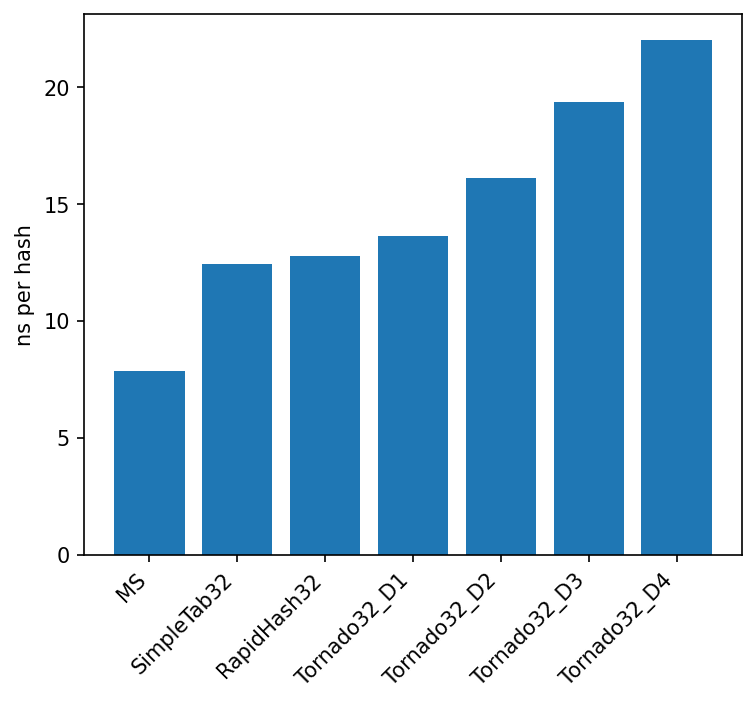
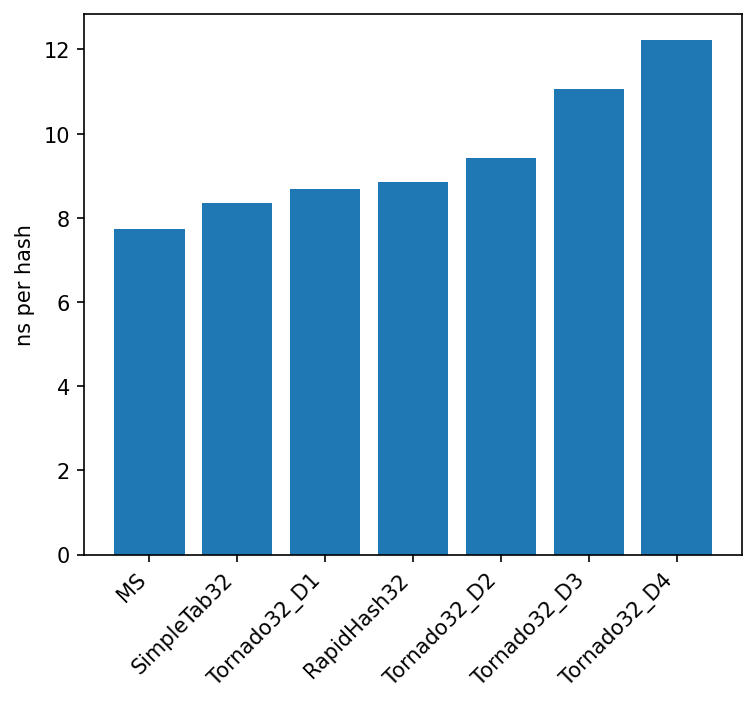
fix speed_CM_a2 and add colision test

diff --git a/src/speed_CM_a2.cpp b/src/speed_CM_a2.cpp
@@ -1,3 +1,6 @@
+// speed_CM_a2.cpp
+// Measure time to INSERT all A2 4-byte keys into Count-Min Sketch, for multiple hash families.
+// Structure aligned with speed_CM_r1.cpp and speed_OPH_a2.cpp.
 
 #include <cstdint>
 #include <string>
@@ -7,24 +10,26 @@
 #include <iomanip>
 #include <fstream>
 #include <stdexcept>
-
-#include "core/a2.hpp"
-#include "core/randomgen.hpp"
-#include "hash/ms.hpp"
-#include "hash/simpletab32.hpp"
-#include "hash/tornado32.hpp"
-#include "hash/rapidhash.h"
-#include "sketch/bottomk.hpp"
-#include "sketch/countmin.hpp"
-#include "sketch/oph.hpp"
+#include <array>
 #include <random>
 #include <algorithm>
 #include <functional>
 #include <unordered_map>
 
+#include "core/a2.hpp"
+#include "core/randomgen.hpp"
+
+#include "hash/ms.hpp"
+#include "hash/simpletab32.hpp"
+#include "hash/tornado32.hpp"
+#include "hash/rapidhash.h"
+
+#include "sketch/countmin.hpp"
+
+// ----------------- utils -----------------
 static inline std::uint32_t load_le_u32(const std::uint8_t* p) {
     return (std::uint32_t)p[0] | ((std::uint32_t)p[1] << 8) |
-           ((std::uint32_t)p[2] << 16) | ((std::uint32_t)p[3] << 24);
+        ((std::uint32_t)p[2] << 16) | ((std::uint32_t)p[3] << 24);
 }
 
 #if defined(_MSC_VER)
@@ -44,21 +49,28 @@ static std::pair<double, std::uint32_t> time_body(std::size_t loops, Body&& body
     return { sec, sink };
 }
 
-// speed_CM_a2.cpp
-// Measure time to INSERT all A2 keys into Count-Min Sketch, for multiple hash families.
-struct RapidRow32 { rapid::RapidHash32 h; void set_seed(std::uint64_t s){ h.set_params(s, rapid_secret[0], rapid_secret[1], rapid_secret[2]); } std::uint32_t hash(std::uint32_t k) const { return h.hash(&k, sizeof(k)); } };
+// Row hash for CMS (maps 32-bit key -> column)
+struct RowHash32 {
+    std::uint32_t a = 0, b = 0;
+    void set_seed(std::uint64_t s) { a = (std::uint32_t)s | 1u; b = (std::uint32_t)(s >> 32); }
+    std::uint32_t hash(std::uint32_t x) const { return a * x + b; } // mod 2^32
+};
 
 int main(int argc, char** argv) {
     try {
+        // ----------------- CLI -----------------
         std::size_t loops = 1000;
         std::size_t WIDTH = 32768;
         std::size_t DEPTH = 3;
         std::string out_csv = "a2_speed_cm.csv";
-        int rounds = 10; // number of randomized passes
+        int rounds = 10; // randomized passes
 
         for (int i = 1; i < argc; ++i) {
             std::string a = argv[i];
-            auto next = [&]() { if (i + 1 < argc) return std::string(argv[++i]); throw std::runtime_error("missing value for " + a); };
+            auto next = [&]() {
+                if (i + 1 < argc) return std::string(argv[++i]);
+                throw std::runtime_error("missing value for " + a);
+                };
             if (a == "--loops") loops = std::stoull(next());
             else if (a == "--width") WIDTH = std::stoull(next());
             else if (a == "--depth") DEPTH = std::stoull(next());
@@ -69,112 +81,134 @@ int main(int argc, char** argv) {
             }
         }
 
+        // ----------------- dataset -----------------
         datasets::A2 ds;
         const auto& buf = ds.buffer();
         const std::size_t N = ds.size();
-        if (buf.size() != N * 4) { std::cerr << "A2 contiguous 4B expected\n"; return 2; }
+        if (buf.size() != N * 4) {
+            std::cerr << "A2 contiguous 4B expected\n";
+            return 2;
+        }
         std::cout << "A2 items: " << N << "  loops=" << loops << "  W=" << WIDTH << " D=" << DEPTH << "\n";
 
+        // ----------------- hash families under test (key -> 32-bit hv) -----------------
+        hashfn::MS ms;                     ms.set_params(rng::get_u64(), rng::get_u64());
+        hashfn::SimpleTab32 stab;          stab.set_params();
+        hashfn::TornadoTab32D1 t1;         t1.set_params();
+        hashfn::TornadoTab32D2 t2;         t2.set_params();
+        hashfn::TornadoTab32D3 t3;         t3.set_params();
+        hashfn::TornadoTab32D4 t4;         t4.set_params();
+        rapid::RapidHash32 rh;             rh.set_params(rng::get_u64(), rapid_secret[0], rapid_secret[1], rapid_secret[2]);
+
+        // ----------------- fixed row hashers for CMS (seeded once) -----------------
+        std::vector<RowHash32> rows(DEPTH);
+        for (std::size_t d = 0; d < DEPTH; ++d) rows[d].set_seed(rng::get_u64());
+
         struct Row { const char* name; double mhps; double nsph; std::uint32_t checksum; };
-        std::vector<Row> rows;
+        std::vector<Row> out;
         auto push_row = [&](const char* name, double sec, std::uint32_t sink) {
             const std::size_t total = N * loops;
-            rows.push_back({ name, (total / sec) / 1e6, (sec * 1e9) / double(total), sink });
+            out.push_back({ name, (total / sec) / 1e6, (sec * 1e9) / double(total), sink });
+            };
+
+        // ----------------- benches -----------------
+        auto bench_u32 = [&](auto& H, const char* name) {
+            auto body = [&](volatile std::uint32_t& sink) {
+                sketch::CountMin cms(WIDTH, DEPTH);
+                for (std::size_t d = 0; d < DEPTH; ++d) cms.set_row(d, &rows[d]);
+                for (std::size_t i = 0; i < N; ++i) {
+                    const std::uint32_t x = load_le_u32(buf.data() + i * 4);
+                    const std::uint32_t hv = H.hash(x);
+                    cms.add(hv, 1);
+                    sink ^= hv;
+                }
+                };
+            auto [sec, s] = time_body(loops, body);
+            push_row(name, sec, s);
+            };
+        auto bench_ptr = [&](auto& H, const char* name) {
+            auto body = [&](volatile std::uint32_t& sink) {
+                sketch::CountMin cms(WIDTH, DEPTH);
+                for (std::size_t d = 0; d < DEPTH; ++d) cms.set_row(d, &rows[d]);
+                for (std::size_t i = 0; i < N; ++i) {
+                    const void* p = buf.data() + i * 4;
+                    const std::uint32_t hv = H.hash(p, 4);
+                    cms.add(hv, 1);
+                    sink ^= hv;
+                }
+                };
+            auto [sec, s] = time_body(loops, body);
+            push_row(name, sec, s);
+            };
+
+        // ----------------- randomized job ordering over rounds -----------------
+        struct Job { const char* name; std::function<void()> run; };
+        std::vector<Job> jobs = {
+            {"MS",            [&] { bench_u32(ms,   "MS"); }},
+            {"SimpleTab32",   [&] { bench_u32(stab, "SimpleTab32"); }},
+            {"Tornado32_D1",  [&] { bench_u32(t1,   "Tornado32_D1"); }},
+            {"Tornado32_D2",  [&] { bench_u32(t2,   "Tornado32_D2"); }},
+            {"Tornado32_D3",  [&] { bench_u32(t3,   "Tornado32_D3"); }},
+            {"Tornado32_D4",  [&] { bench_u32(t4,   "Tornado32_D4"); }},
+            {"RapidHash32",   [&] { bench_ptr(rh,   "RapidHash32"); }},
         };
 
-        // Seeds per depth (so we don't re-generate inside the timed body)
-        std::vector<std::pair<std::uint64_t,std::uint64_t>> seedsMS(DEPTH);
-        std::vector<std::uint64_t> seedsRapid(DEPTH);
-        for (std::size_t d = 0; d < DEPTH; ++d) { seedsMS[d] = {rng::get_u64(), rng::get_u64()}; seedsRapid[d] = rng::get_u64(); }
-
-        auto bench_ms = [&](){
-            auto body = [&](volatile std::uint32_t& sink) {
-                sketch::CountMin cms(WIDTH, DEPTH);
-                std::vector<hashfn::MS> rows(DEPTH);
-                for (std::size_t d=0; d<DEPTH; ++d) { rows[d].set_params(seedsMS[d].first, seedsMS[d].second); cms.set_row(d, &rows[d]); }
-                for (std::size_t i = 0; i < N; ++i) { const std::uint32_t x = load_le_u32(buf.data() + i * 4); cms.add(x, 1); sink ^= x; }
-            };
-            return time_body(loops, body);
-        };
-        auto bench_stab = [&](){
-            auto body = [&](volatile std::uint32_t& sink) {
-                sketch::CountMin cms(WIDTH, DEPTH);
-                std::vector<hashfn::SimpleTab32> rows(DEPTH);
-                for (std::size_t d=0; d<DEPTH; ++d) { rows[d].set_params(); cms.set_row(d, &rows[d]); }
-                for (std::size_t i = 0; i < N; ++i) { const std::uint32_t x = load_le_u32(buf.data() + i * 4); cms.add(x, 1); sink ^= x; }
-            };
-            return time_body(loops, body);
-        };
-        auto bench_tor = [&](int which){
-            auto body = [&](volatile std::uint32_t& sink) {
-                sketch::CountMin cms(WIDTH, DEPTH);
-                if (which==1){ std::vector<hashfn::TornadoTab32D1> rows(DEPTH); for (std::size_t d=0; d<DEPTH; ++d){ rows[d].set_params(); cms.set_row(d, &rows[d]); }
-                               for (std::size_t i=0;i<N;++i){ const std::uint32_t x=load_le_u32(buf.data()+i*4); cms.add(x,1); sink^=x; } }
-                else if (which==2){ std::vector<hashfn::TornadoTab32D2> rows(DEPTH); for (std::size_t d=0; d<DEPTH; ++d){ rows[d].set_params(); cms.set_row(d, &rows[d]); }
-                               for (std::size_t i=0;i<N;++i){ const std::uint32_t x=load_le_u32(buf.data()+i*4); cms.add(x,1); sink^=x; } }
-                else if (which==3){ std::vector<hashfn::TornadoTab32D3> rows(DEPTH); for (std::size_t d=0; d<DEPTH; ++d){ rows[d].set_params(); cms.set_row(d, &rows[d]); }
-                               for (std::size_t i=0;i<N;++i){ const std::uint32_t x=load_le_u32(buf.data()+i*4); cms.add(x,1); sink^=x; } }
-                else { std::vector<hashfn::TornadoTab32D4> rows(DEPTH); for (std::size_t d=0; d<DEPTH; ++d){ rows[d].set_params(); cms.set_row(d, &rows[d]); }
-                               for (std::size_t i=0;i<N;++i){ const std::uint32_t x=load_le_u32(buf.data()+i*4); cms.add(x,1); sink^=x; } }
-            };
-            return time_body(loops, body);
-        };
-        auto bench_rapid = [&](){
-            auto body = [&](volatile std::uint32_t& sink) {
-                sketch::CountMin cms(WIDTH, DEPTH);
-                std::vector<RapidRow32> rows(DEPTH);
-                for (std::size_t d=0; d<DEPTH; ++d) { rows[d].set_seed(seedsRapid[d]); cms.set_row(d, &rows[d]); }
-                for (std::size_t i=0; i<N; ++i) { const std::uint32_t x=load_le_u32(buf.data()+i*4); cms.add(x,1); sink ^= x; }
-            };
-            return time_body(loops, body);
-        };
-
-        auto [sec_ms, s_ms]     = bench_ms();     rows.push_back({"MS",             (N*loops/sec_ms)/1e6, (sec_ms*1e9)/(N*loops), s_ms});
-        auto [sec_st, s_st]     = bench_stab();   rows.push_back({"SimpleTab32",    (N*loops/sec_st)/1e6, (sec_st*1e9)/(N*loops), s_st});
-        auto [sec_t1, s_t1]     = bench_tor(1);   rows.push_back({"Tornado32_D1",   (N*loops/sec_t1)/1e6, (sec_t1*1e9)/(N*loops), s_t1});
-        auto [sec_t2, s_t2]     = bench_tor(2);   rows.push_back({"Tornado32_D2",   (N*loops/sec_t2)/1e6, (sec_t2*1e9)/(N*loops), s_t2});
-        auto [sec_t3, s_t3]     = bench_tor(3);   rows.push_back({"Tornado32_D3",   (N*loops/sec_t3)/1e6, (sec_t3*1e9)/(N*loops), s_t3});
-        auto [sec_t4, s_t4]     = bench_tor(4);   rows.push_back({"Tornado32_D4",   (N*loops/sec_t4)/1e6, (sec_t4*1e9)/(N*loops), s_t4});
-        auto [sec_rh, s_rh]     = bench_rapid();  rows.push_back({"RapidHash32",    (N*loops/sec_rh)/1e6, (sec_rh*1e9)/(N*loops), s_rh});
-{
-    std::unordered_map<std::string, std::vector<Row>> _groups;
-    _groups.reserve(rows.size());
-    for (const auto& r : rows) _groups[std::string(r.name)].push_back(r);
-    std::vector<Row> _collapsed; _collapsed.reserve(_groups.size());
-    auto _median = [](std::vector<double>& v) {
-        if (v.empty()) return 0.0;
-        size_t n = v.size();
-        std::nth_element(v.begin(), v.begin() + n/2, v.end());
-        double m = v[n/2];
-        if (n % 2 == 0) {
-            auto max_lower = *std::max_element(v.begin(), v.begin() + n/2);
-            m = 0.5 * (m + max_lower);
+        for (int r = 0; r < rounds; ++r) {
+            std::mt19937_64 ord_rng(std::random_device{}());
+            std::shuffle(jobs.begin(), jobs.end(), ord_rng);
+            for (auto& j : jobs) j.run();
         }
-        return m;
-    };
-    for (auto& kv : _groups) {
-        const char* nm = kv.second.front().name;
-        std::vector<double> mhpsv; mhpsv.reserve(kv.second.size());
-        std::vector<double> nsphv; nsphv.reserve(kv.second.size());
-        std::uint32_t chk = 0;
-        for (auto& r : kv.second) { mhpsv.push_back(r.mhps); nsphv.push_back(r.nsph); chk ^= r.checksum; }
-        double mhps_med = _median(mhpsv);
-        double nsph_med = _median(nsphv);
-        _collapsed.push_back(Row{ nm, mhps_med, nsph_med, chk });
-    }
-    rows.swap(_collapsed);
-}
 
+        // ----------------- collapse by median (per function) -----------------
+        {
+            std::unordered_map<std::string, std::vector<Row>> groups;
+            groups.reserve(out.size());
+            for (const auto& r : out) groups[std::string(r.name)].push_back(r);
 
+            std::vector<Row> collapsed; collapsed.reserve(groups.size());
+            auto median = [](std::vector<double>& v) {
+                if (v.empty()) return 0.0;
+                size_t n = v.size();
+                std::nth_element(v.begin(), v.begin() + n / 2, v.end());
+                double m = v[n / 2];
+                if (n % 2 == 0) {
+                    auto max_lower = *std::max_element(v.begin(), v.begin() + n / 2);
+                    m = 0.5 * (m + max_lower);
+                }
+                return m;
+                };
+
+            for (auto& kv : groups) {
+                const char* nm = kv.second.front().name;
+                std::vector<double> mhpsv; mhpsv.reserve(kv.second.size());
+                std::vector<double> nsphv; nsphv.reserve(kv.second.size());
+                std::uint32_t chk = 0;
+                for (auto& r : kv.second) {
+                    mhpsv.push_back(r.mhps);
+                    nsphv.push_back(r.nsph);
+                    chk ^= r.checksum;
+                }
+                double mhps_med = median(mhpsv);
+                double nsph_med = median(nsphv);
+                collapsed.push_back(Row{ nm, mhps_med, nsph_med, chk });
+            }
+            out.swap(collapsed);
+        }
+
+        // ----------------- write CSV -----------------
         std::ofstream f(out_csv, std::ios::binary);
         if (!f) { std::cerr << "Cannot open " << out_csv << "\n"; return 3; }
         f.setf(std::ios::fixed); f << std::setprecision(6);
         f << "function,Mhash_s,ns_per_hash,checksum_hex,loops,N,width,depth\n";
-        for (const auto& r : rows) {
+        for (const auto& r : out) {
             f << r.name << "," << r.mhps << "," << r.nsph << ",0x" << std::hex << r.checksum << std::dec
-              << "," << loops << "," << N << "," << WIDTH << "," << DEPTH << "\n";
+                << "," << loops << "," << N << "," << WIDTH << "," << DEPTH << "\n";
         }
         std::cout << "Wrote: " << out_csv << "\n";
         return 0;
-    } catch (const std::exception& e) { std::cerr << "FATAL: " << e.what() << "\n"; return 1; }
+    }
+    catch (const std::exception& e) {
+        std::cerr << "FATAL: " << e.what() << "\n";
+        return 1;
+    }
 }

diff --git a/src/colisions_R2_MSVEC_rapid.cpp b/src/colisions_R2_MSVEC_rapid.cpp
@@ -33,12 +33,6 @@
 #include "hash/msvec.hpp"
 #include "hash/rapidhash.h"
 
-#include <iostream>
-
-
-
-
-
 // ---------- R2 accessors that handle both index layouts ----------
 
 template<class Index>
@@ -172,28 +166,6 @@ static std::uint32_t trial_collisions(Hasher& H,
 }
 
 int main(int argc, char** argv) {
-
-
-    #ifdef _MSVC_LANG
-        std::cout << "_MSVC_LANG: " << _MSVC_LANG << "\n";
-    #endif
-        std::cout << "__cplusplus: " << __cplusplus << "\n";
-
-    #if __cplusplus >= 202102L || (defined(_MSVC_LANG) && _MSVC_LANG >= 202302L)
-        std::cout << "Detected: C++23 or later\n";
-    #elif __cplusplus >= 202002L || (defined(_MSVC_LANG) && _MSVC_LANG >= 202002L)
-        std::cout << "Detected: C++20\n";
-    #elif __cplusplus >= 201703L || (defined(_MSVC_LANG) && _MSVC_LANG >= 201703L)
-        std::cout << "Detected: C++17\n";
-    #elif __cplusplus >= 201402L || (defined(_MSVC_LANG) && _MSVC_LANG >= 201402L)
-        std::cout << "Detected: C++14\n";
-    #elif __cplusplus >= 201103L || (defined(_MSVC_LANG) && _MSVC_LANG >= 201103L)
-        std::cout << "Detected: C++11\n";
-    #else
-        std::cout << "Detected: pre-C++11\n";
-    #endif
-
-
     try {
         std::uint32_t trials = 50000;
         std::string out_csv = "r2_collision_max.csv";
